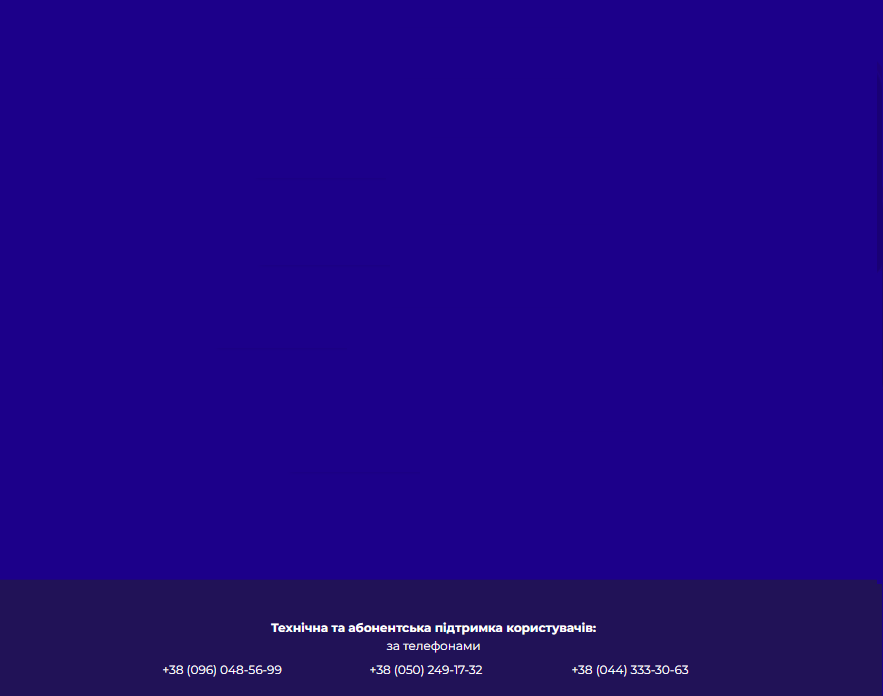
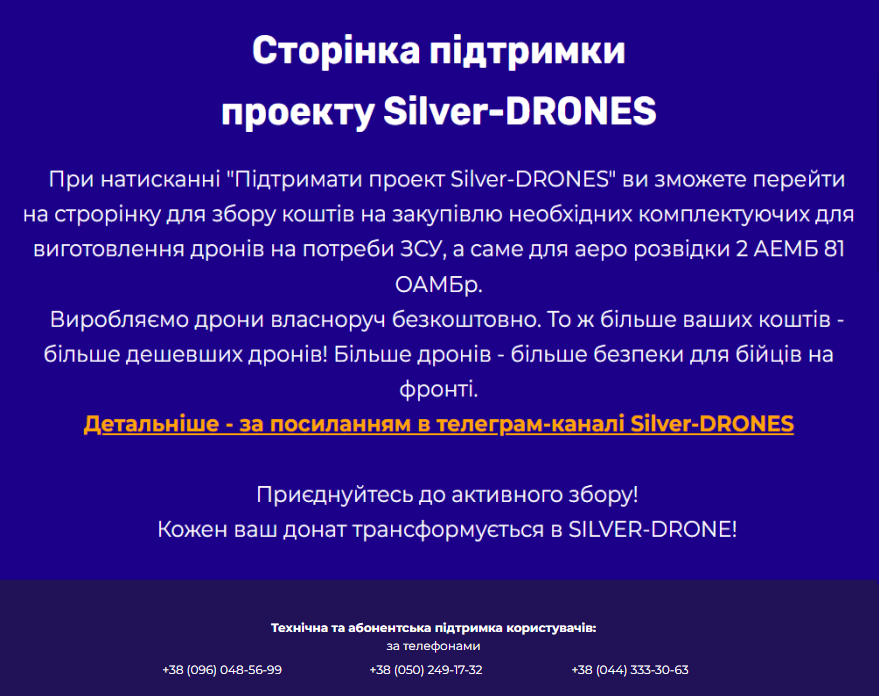
design

diff --git a/public/silver-drones.html b/public/silver-drones.html
@@ -75,12 +75,12 @@
             НОВИНИ
           </a>
         </li>
-        <li class="menu-nav__item" id="downloadInvoiceItem">
+        <li class="menu-nav__item" id="downloadInvoiceItem" style="color: orange;">
           <a href="https://send.monobank.ua/jar/8Sg6bPdsh9" class="menu-nav__link" style="color: #FFA500">
             Підтримати проект SILVER-DRONES
           </a>
         </li>
-        <li class="menu-nav__item">
+        <li class="menu-nav__item" style="color: orange;">
           <a href="https://t.me/SilverDRONES" class="menu-nav__link" style="color: orange;">
             Телеграм-канал Silver-DRONES
           </a>

diff --git a/public/js/main.js b/public/js/main.js
@@ -60,12 +60,17 @@ const pageContent = [
     "page": "SILVER-DRONES",
     "basePage": ["silver-drones.html"],
     "forHide": [
+      ".t396",
       "#rec153306226"
     ],
     "keysForReDefine": [],
     "valuesForReDefine": [],
     "toAdd": [
       {
+        "id": "imageIndex_5",
+        "where": "#t-footer",
+        "img": "images/backgrDrones.png",
+        "href": "silver-drones.html"
       }
     ]
   }, {
